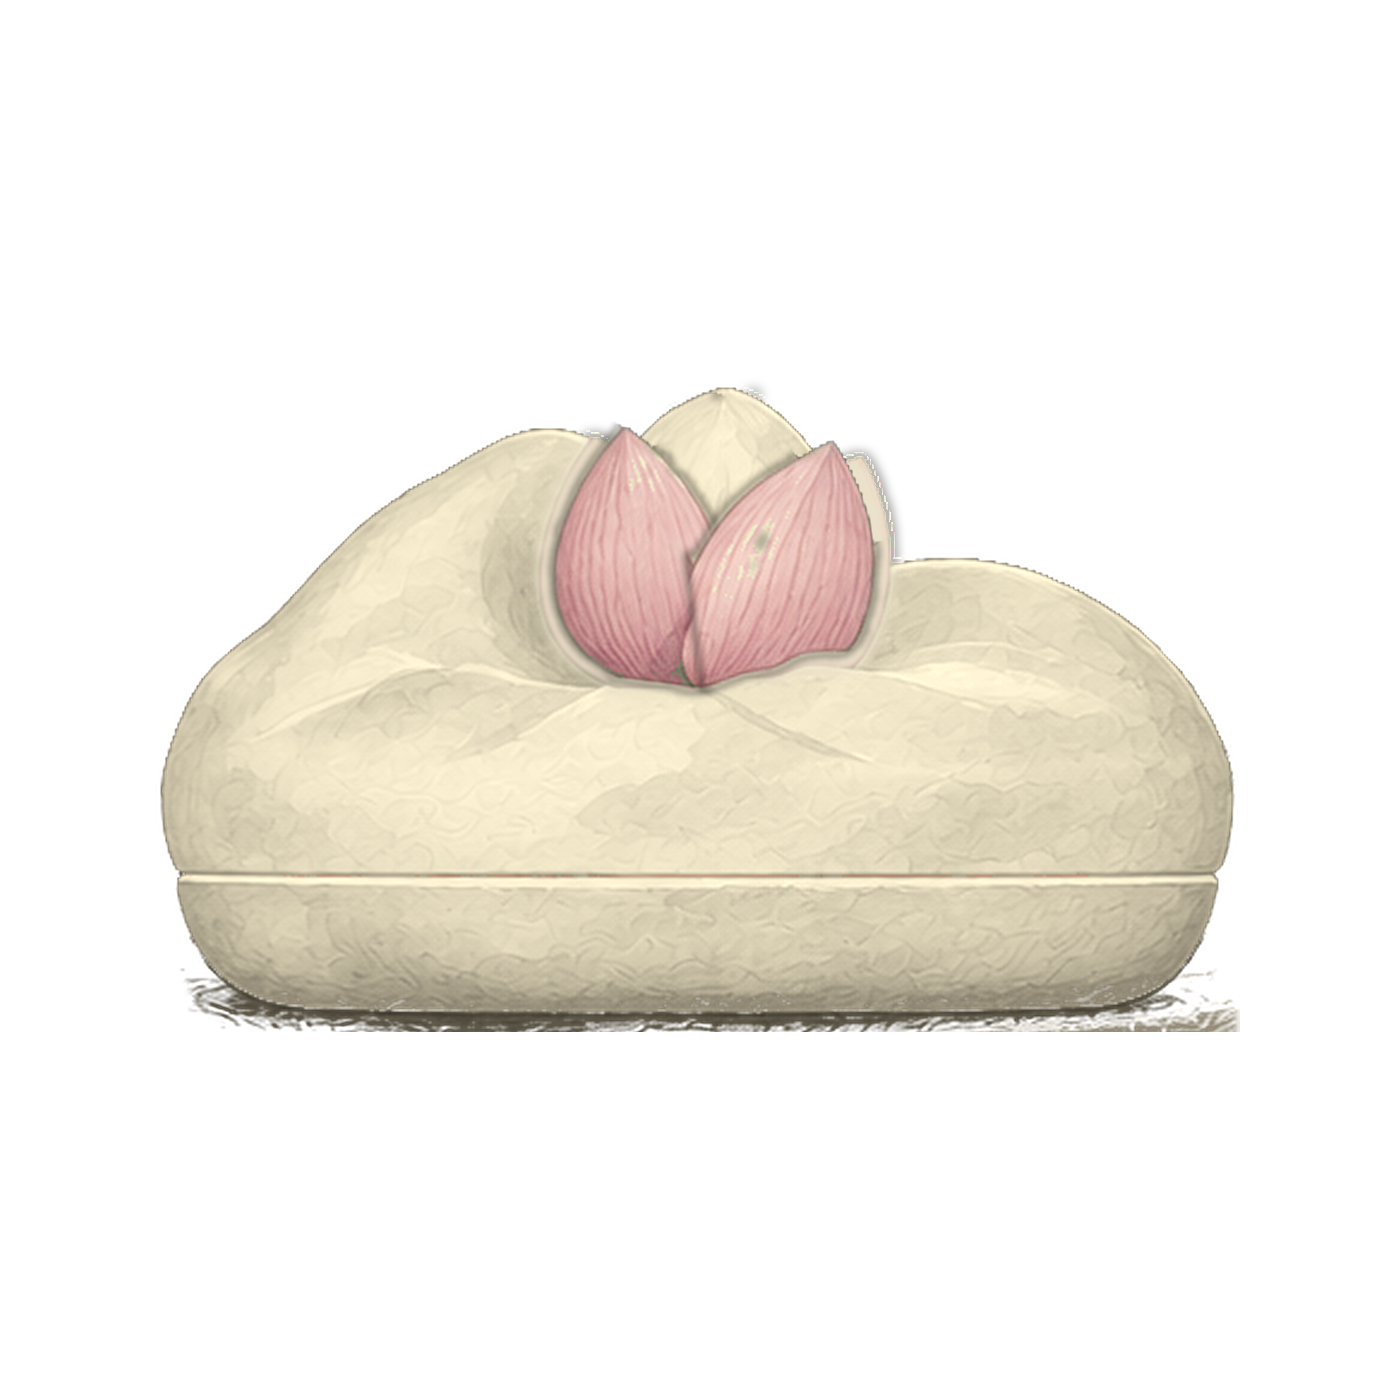
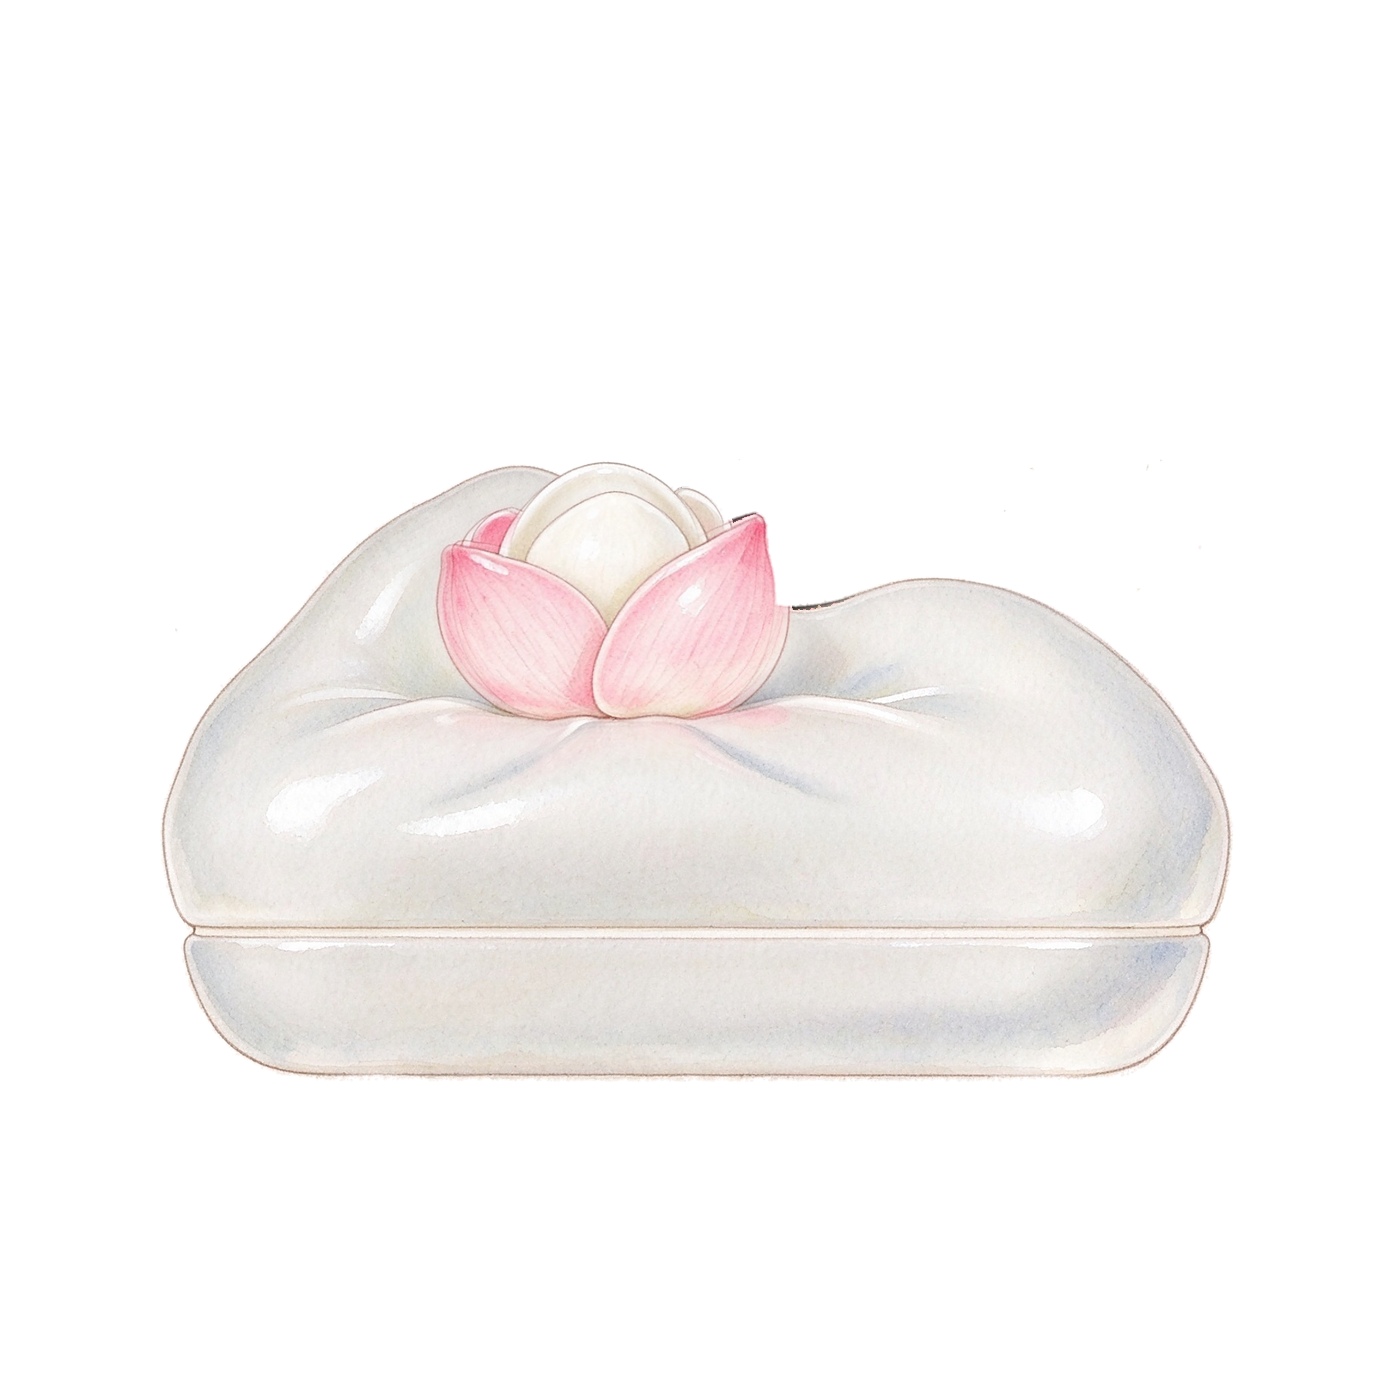
香炉改用 AI 水彩图（去纸底/去水印），花瓣张开由位移场自绘并接回点香动效
- 抠图：边界泛洪只吃与画面边缘连通的纸底，炉体内部高光不再被挖空
- 去水印：右下角文字色 + 区域硬清
- 对齐：按炉体底边对齐 y=1081、宽 1070，纠正了之前因水印导致的下沉
- 张开态：以花心为原点的横向位移场（26px，带 alpha 加权重采样），花瓣外翻、花心露出
- 页面：开花图层恢复，0.75s 交叉淡入

Changed region(s): [[0.0921, 0.2764, 0.8907, 0.7986]]

diff --git a/css/vintage.css b/css/vintage.css
@@ -1930,5 +1930,25 @@ html[data-skin="vintage"][data-theme="night"] .censer-ground-shadow {
 
 
 /* 开花效果暂时撤掉（等插画版张开图） */
-html[data-skin="vintage"] .censer-art.censer-bloom,
 html[data-skin="vintage"] #censerFlash { display: none !important; }
+
+
+/* 开花：AI 水彩图 + 位移张开版，0.75 秒交叉淡入 */
+html[data-skin="vintage"] .censer-art.censer-bloom {
+  transform: none !important;
+  filter: none;
+  opacity: 0;
+  transition: opacity .75s cubic-bezier(.4, .05, .3, 1);
+}
+html[data-skin="vintage"] body.is-igniting:not(.is-lit) .censer-art.censer-bloom {
+  opacity: .35;
+  transition: opacity .45s ease;
+}
+html[data-skin="vintage"] body.is-lit .censer-art.censer-bloom {
+  opacity: 1;
+  transition: opacity .75s cubic-bezier(.4, .05, .3, 1);
+}
+html[data-skin="vintage"] body:not(.is-lit):not(.is-igniting) .censer-art.censer-bloom {
+  opacity: 0;
+  transition: opacity 1.0s ease .1s;
+}

diff --git a/index.html b/index.html
@@ -122,7 +122,9 @@
                width="1254" height="1254" alt="" aria-hidden="true" draggable="false" />
           <img class="censer-art censer-art-night" src="assets/censer/product.webp"
                width="1254" height="1254" alt="" aria-hidden="true" draggable="false" />
-          <span class="censer-smoke-origin" id="censerSmokeOrigin" aria-hidden="true"></span>
+                    <img class="censer-art censer-bloom" src="assets/censer/bloom-open.webp"
+               width="1254" height="1254" alt="" aria-hidden="true" draggable="false" />
+<span class="censer-smoke-origin" id="censerSmokeOrigin" aria-hidden="true"></span>
 
         </div>
 
